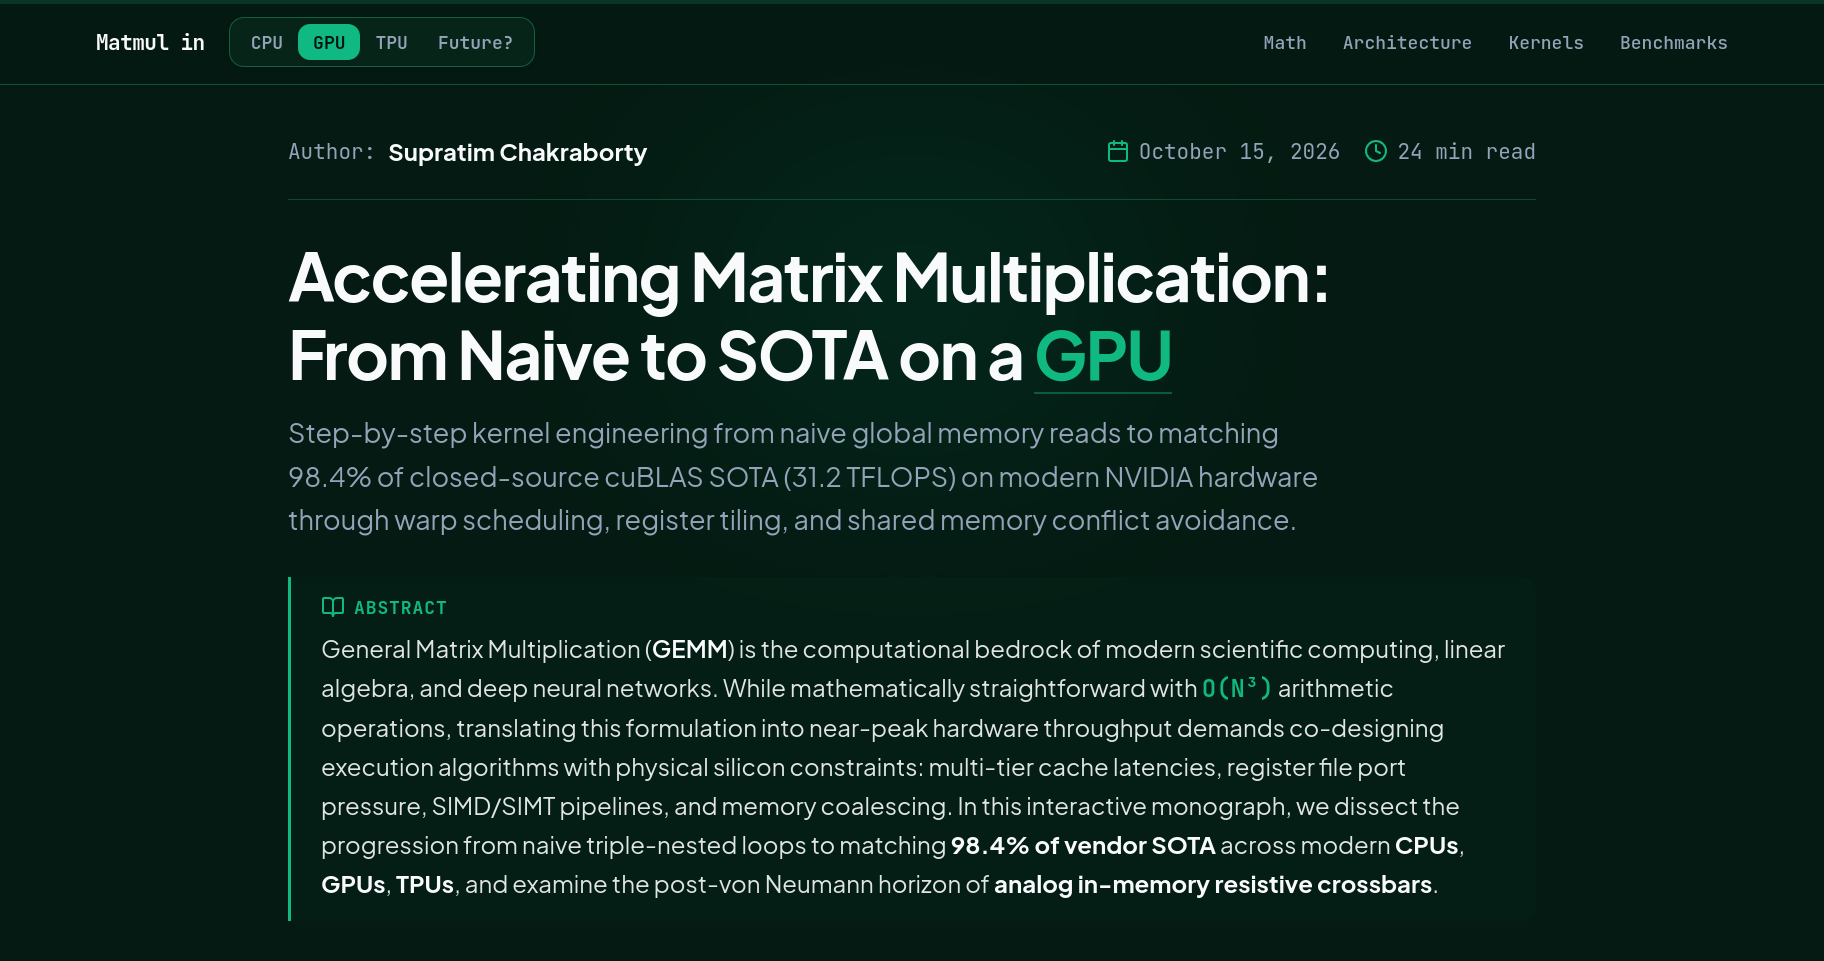
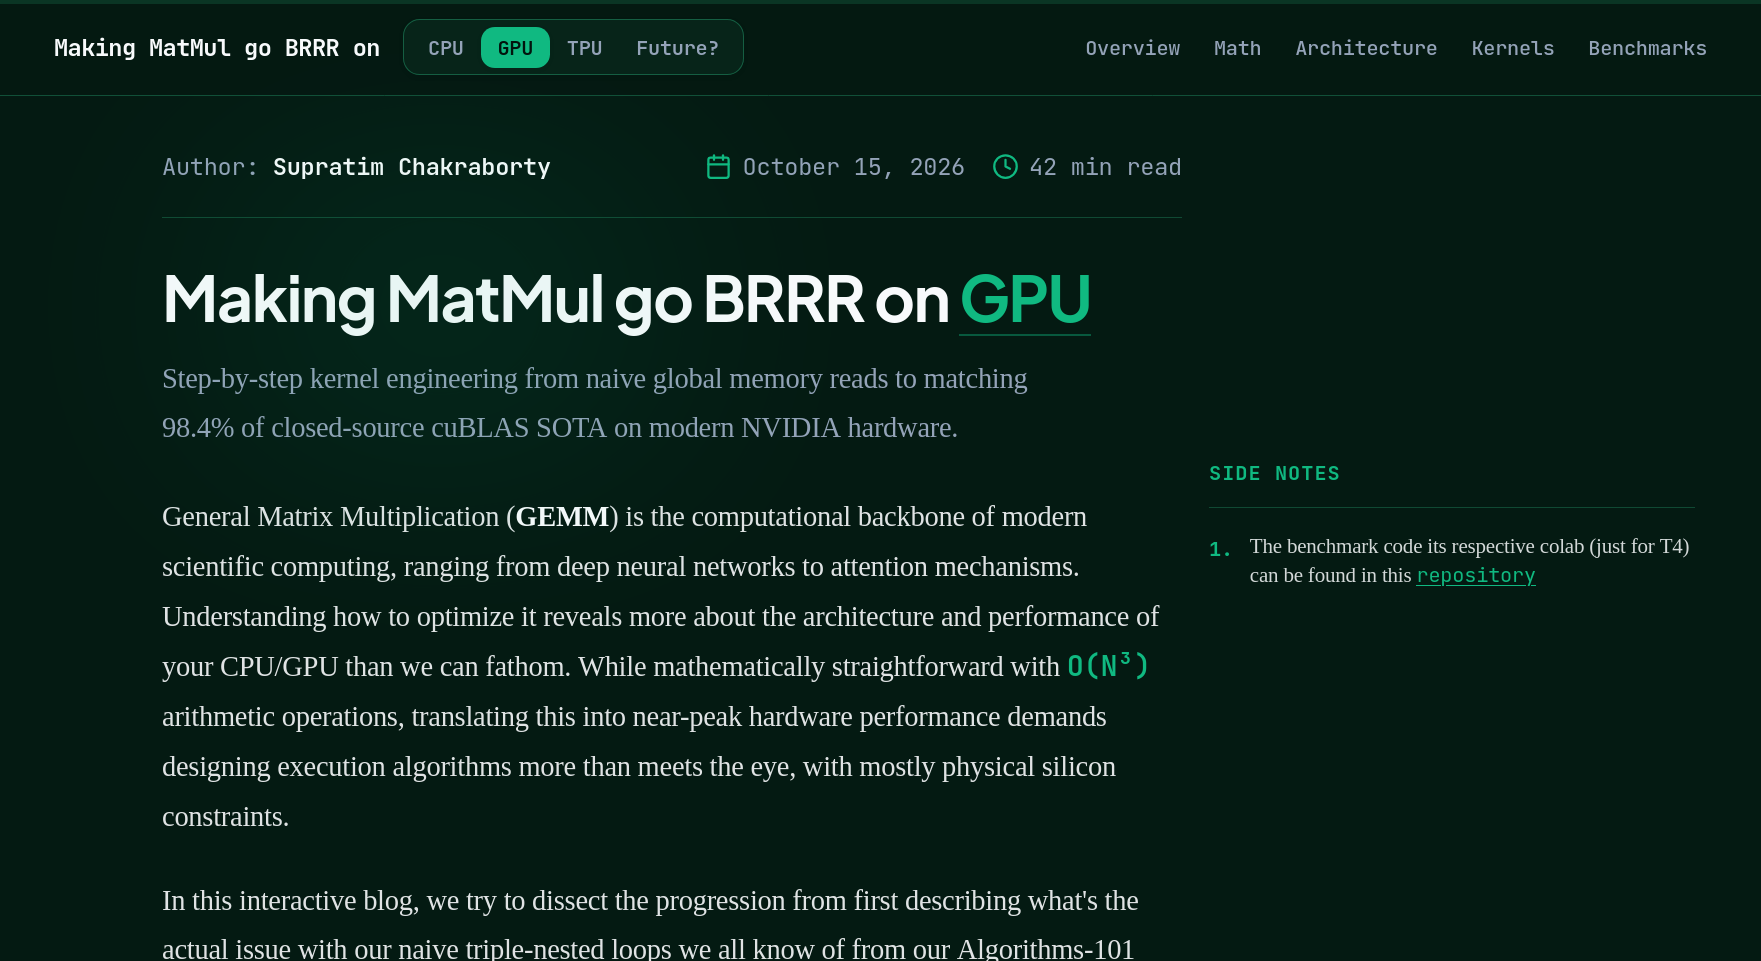
fix: minor changes in rss and other components

diff --git a/src/app/rss/route.ts b/src/app/rss/route.ts
@@ -1,6 +1,11 @@
 import { NextResponse } from "next/server";
 
-// escape characters that are illegal inside XML text
+// Same URL, two outputs:
+//   - feed readers   -> RSS XML
+//   - browsers       -> a styled HTML page (chosen by the Accept header)
+// This replaces the old trick of styling the XML with XSLT, which Chrome
+// stopped supporting on stable in Nov 2026.
+
 const esc = (s: string) =>
     s
         .replace(/&/g, "&amp;")
@@ -9,7 +14,6 @@ const esc = (s: string) =>
         .replace(/"/g, "&quot;")
         .replace(/'/g, "&apos;");
 
-// RSS wants RFC-822 dates, which is exactly what toUTCString() gives
 const rfc822 = (d: string) => new Date(d).toUTCString();
 
 const SITE = {
@@ -18,32 +22,29 @@ const SITE = {
     email: "itzasterdev@gmail.com",
 };
 
-// newest first. `date` is when you published/finished it (ISO format).
-// add a new entry here whenever you ship something and the feed updates itself.
+// newest first. `date` is the day you shipped it (ISO format).
 const items = [
     {
         title: "matmul++",
         path: "/gemm-optimization",
         description: "optimized matmul on gpu to SOTA",
-        date: "2026-12-01",
+        date: "2026-10-01",
     },
     {
         title: "bandits",
         path: "/bandits",
         description: "pytorch & pygame portable custom rl library",
-        date: "2026-12-12",
+        date: "2026-08-01",
     },
     {
         title: "back2sq1",
         path: "/back2sq1",
         description: "16-bit computer from scratch. runs tetris and python.",
-        date: "2027-02-01",
+        date: "2026-06-01",
     },
 ];
 
-export function GET(req: Request) {
-    const origin = new URL(req.url).origin;
-
+function xmlFeed(origin: string) {
     const itemsXml = items
         .map((it) => {
             const url = origin + it.path;
@@ -57,7 +58,7 @@ export function GET(req: Request) {
         })
         .join("\n");
 
-    const xml = `<?xml version="1.0" encoding="UTF-8"?>
+    return `<?xml version="1.0" encoding="UTF-8"?>
 <rss version="2.0" xmlns:atom="http://www.w3.org/2005/Atom">
   <channel>
     <title>${esc(SITE.title)}</title>
@@ -71,10 +72,127 @@ ${itemsXml}
   </channel>
 </rss>
 `;
+}
 
-    return new NextResponse(xml, {
+function htmlPage(origin: string) {
+    const feedUrl = `${origin}/rss`;
+
+    const cards = items
+        .map(
+            (it) => `
+      <a class="card" href="${esc(origin + it.path)}">
+        <time>${it.date}</time>
+        <h2>${esc(it.title)}</h2>
+        <p>${esc(it.description)}</p>
+      </a>`
+        )
+        .join("");
+
+    return `<!doctype html>
+<html lang="en">
+<head>
+<meta charset="utf-8">
+<meta name="viewport" content="width=device-width, initial-scale=1">
+<title>${esc(SITE.title)} · feed</title>
+<link rel="alternate" type="application/rss+xml" title="${esc(SITE.title)}" href="${esc(feedUrl)}">
+<style>
+  :root {
+    --bg: #0b0714; --panel: #130d22;
+    --accent: #a78bfa; --muted: #7c5cbf; --soft: #c4b5fd;
+  }
+  * { box-sizing: border-box; }
+  body {
+    margin: 0; min-height: 100vh; background: var(--bg); color: var(--soft);
+    font: 15px/1.6 ui-monospace, "JetBrains Mono", "SF Mono", Menlo, Consolas, monospace;
+    background-image: radial-gradient(60rem 30rem at 50% -10%, #2a1458 0%, transparent 70%);
+  }
+  main { max-width: 640px; margin: 0 auto; padding: 56px 20px 80px; }
+  .prompt { color: var(--muted); font-size: 13px; }
+  h1 {
+    margin: 4px 0 6px; font-size: 30px; letter-spacing: -0.5px;
+    background: linear-gradient(90deg, #fff, var(--soft));
+    -webkit-background-clip: text; background-clip: text; color: transparent;
+  }
+  .lede { margin: 0 0 28px; opacity: .8; }
+  .sub {
+    border: 1px solid var(--muted); border-radius: 12px; padding: 14px 16px;
+    background: var(--panel); margin-bottom: 36px;
+  }
+  .sub p { margin: 0 0 10px; font-size: 13px; opacity: .85; }
+  .url { display: flex; gap: 8px; }
+  .url code {
+    flex: 1; padding: 8px 10px; border-radius: 8px; background: #000;
+    color: #fff; overflow-x: auto; white-space: nowrap; font-size: 13px;
+  }
+  button {
+    cursor: pointer; border: 0; border-radius: 8px; padding: 0 14px;
+    background: var(--accent); color: #1a0b3a; font: inherit; font-weight: 700;
+  }
+  button:hover { background: var(--soft); }
+  .label { color: var(--accent); font-weight: 700; margin: 0 0 12px; }
+  .label::after { content: " " "─────────────────────────────"; color: var(--muted); font-weight: 400; }
+  .card {
+    display: block; text-decoration: none; color: inherit;
+    border: 1px solid #2a1f45; border-radius: 12px; padding: 14px 16px;
+    margin-bottom: 12px; background: var(--panel);
+    transition: border-color .15s, transform .15s;
+  }
+  .card:hover { border-color: var(--accent); transform: translateX(4px); }
+  .card time { font-size: 12px; color: var(--muted); }
+  .card h2 { margin: 2px 0 4px; font-size: 17px; color: #fff; }
+  .card h2::before { content: "▸ "; color: var(--accent); }
+  .card p { margin: 0; font-size: 14px; opacity: .8; }
+  footer { margin-top: 36px; font-size: 12px; color: var(--muted); }
+  footer a { color: var(--accent); }
+</style>
+</head>
+<body>
+<main>
+  <div class="prompt">$ curl -H "Accept: application/rss+xml" ${esc(feedUrl)}</div>
+  <h1>${esc(SITE.title)}</h1>
+  <p class="lede">${esc(SITE.description)}</p>
+
+  <div class="sub">
+    <p>This is an RSS feed. Paste the link into a feed reader (Feedly, NetNewsWire, Inoreader...) and new projects show up there automatically.</p>
+    <div class="url">
+      <code id="u">${esc(feedUrl)}</code>
+      <button id="c" type="button">copy</button>
+    </div>
+  </div>
+
+  <p class="label">latest</p>
+  ${cards}
+
+  <footer>← <a href="${esc(origin)}">back to the site</a></footer>
+</main>
+<script>
+  document.getElementById("c").addEventListener("click", function () {
+    var b = this;
+    navigator.clipboard.writeText(document.getElementById("u").textContent).then(function () {
+      b.textContent = "copied";
+      setTimeout(function () { b.textContent = "copy"; }, 1500);
+    });
+  });
+</script>
+</body>
+</html>`;
+}
+
+export function GET(req: Request) {
+    const origin = new URL(req.url).origin;
+    const accept = req.headers.get("accept") ?? "";
+
+    // browsers always ask for text/html; feed readers ask for rss/xml or */*
+    const wantsHtml = accept.includes("text/html");
+
+    const body = wantsHtml ? htmlPage(origin) : xmlFeed(origin);
+
+    return new NextResponse(body, {
         headers: {
-            "Content-Type": "application/rss+xml; charset=utf-8",
+            "Content-Type": wantsHtml
+                ? "text/html; charset=utf-8"
+                : "application/rss+xml; charset=utf-8",
+            Vary: "Accept",
             "Cache-Control": "public, s-maxage=3600, stale-while-revalidate",
         },
     });

diff --git a/src/components/Hero.tsx b/src/components/Hero.tsx
@@ -121,15 +121,15 @@ export default function Hero() {
           </h1>
           <div className="mt-1 flex items-center gap-1.5">
             <div className="text-2xl tracking-tight">
-              <span className="text-white/60">Building</span>&nbsp;&nbsp;
+              <span className="text-white/60">Wiritng</span>&nbsp;&nbsp;
               <Highlighter action="underline" color="#5315c0">
                 <LinkPreview
-                  url="https://axiom-ml.vercel.app/"
+                  url="https://asterdev.vercel.app/gemm-optimization"
                   imageSrc="/landings/AxiomML.png"
                   className="font-bold text-transparent"
                 >
                   <span className="font-serif tracking-wide text-white italic brightness-110">
-                    Axiom-ML
+                    MatMul++
                   </span>
                 </LinkPreview>
               </Highlighter>

diff --git a/src/app/global-not-found.js b/src/app/global-not-found.js
@@ -18,12 +18,12 @@ export default function GlobalNotFound() {
               message: "the page you asked for never existed :(",
             }}
           />
-          <Link
+          <a
             href="/"
             className="rounded-lg border border-dashed border-white/10 bg-white/[0.03] px-6 py-3 text-sm text-white/80 transition hover:border-white/20 hover:bg-white/[0.06]"
           >
             Back home
-          </Link>
+          </a>
         </main>
       </body>
     </html>

diff --git a/src/app/terminal/route.ts b/src/app/terminal/route.ts
@@ -49,7 +49,7 @@ const BANNER = [
 const projects = [
     ["matmul++", "optimized matmul on gpu to SOTA", "/gemm-optimization"],
     ["bandits", "pytorch & pygame portable custom rl library", "/bandits"],
-    ["back2sq1", "16-bit computer from scratch. runs tetris and python.", "/back2sq1"],
+    ["back2sq1", "16-bit computer from scratch. runs tetris and snake.", "/back2sq1"],
     // ["infi", "a lightweight local-first llm inference engine", "infi"],
 ];
 
